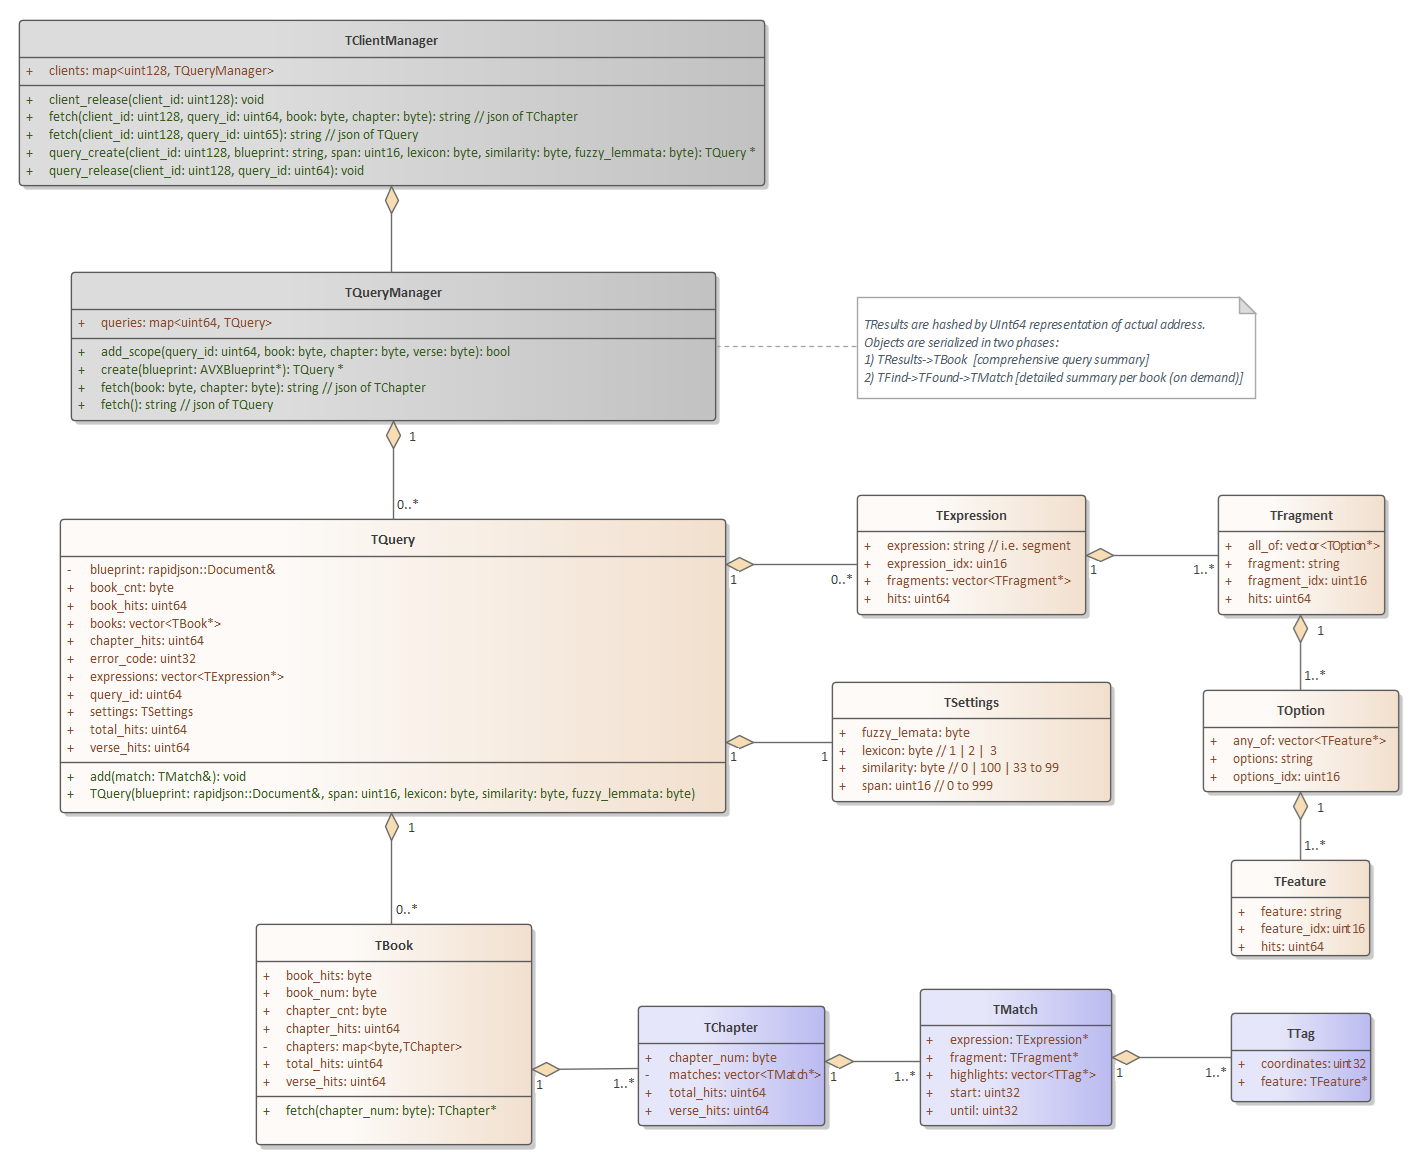
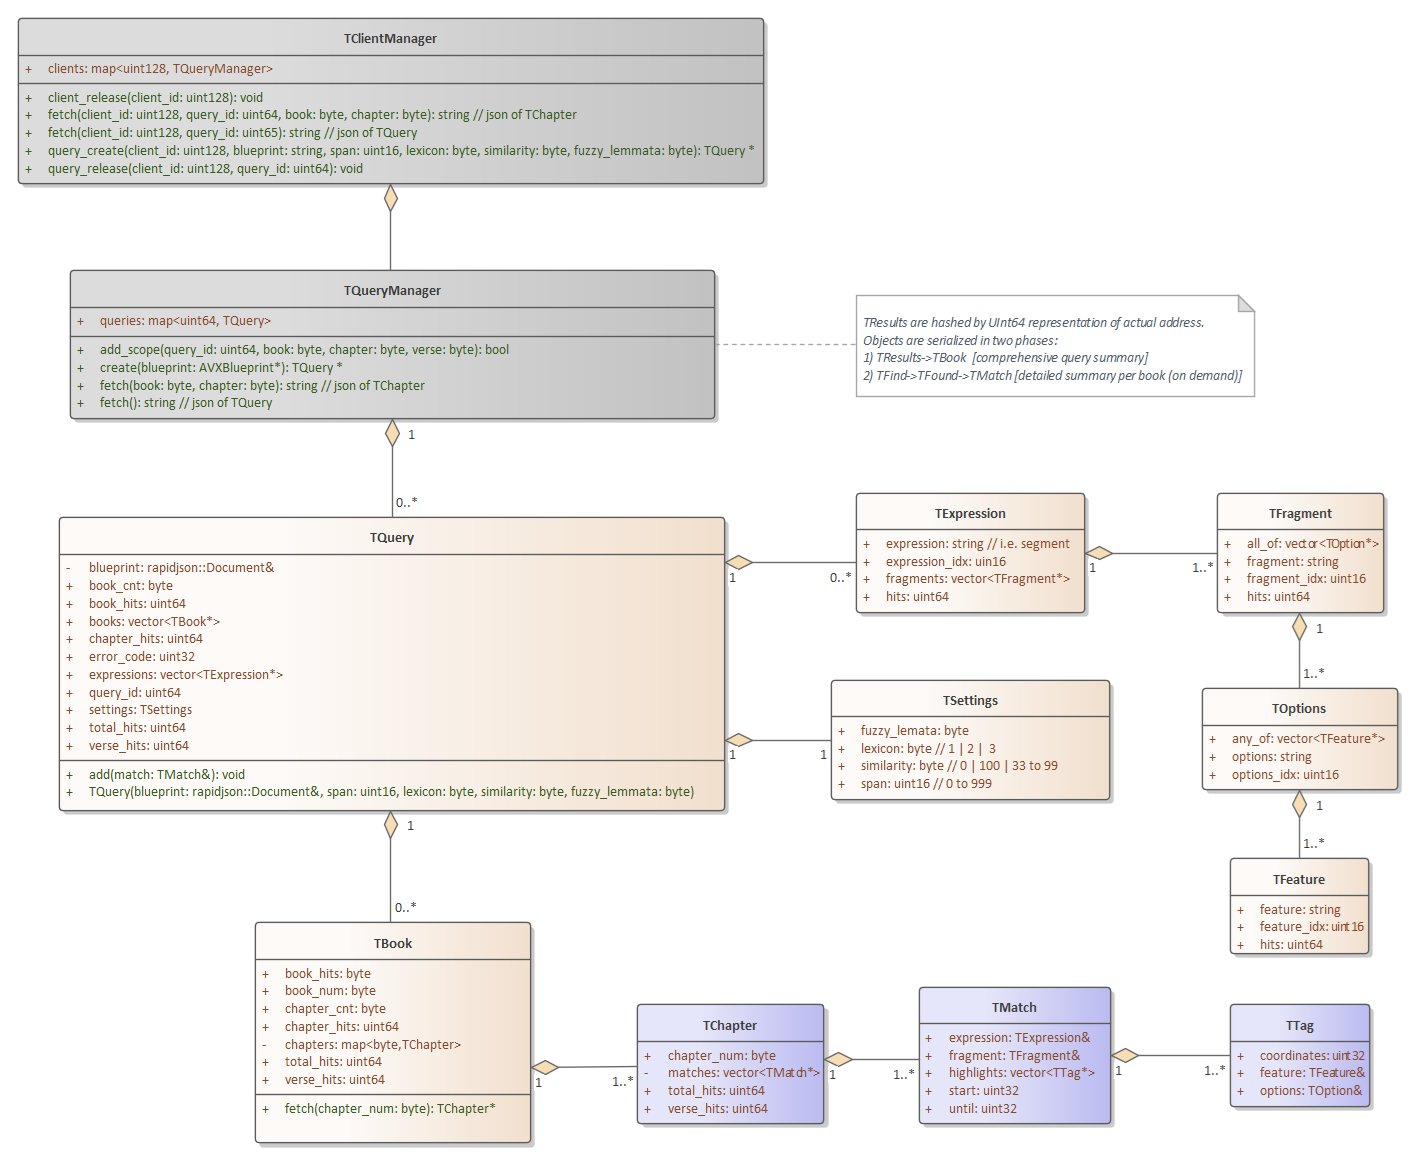
tweaks to results framework, added als options reference to TTag

diff --git a/AVXSearch/TTag.h b/AVXSearch/TTag.h
@@ -11,16 +11,18 @@
 #include <Serialization.h>
 #include <string>
 #include <vector>
+#include <TOptions.h>
 #include <TFeature.h>
 #include <IBuild.h>
 
 class TTag : public IBuild
 {
 public:
+    TOptions& options;
     TFeature& feature;
     uint32 coordinates;
 
-    TTag(uint32 coordinates, TFeature& feature): feature(feature)
+    TTag(uint32 coordinates, TOptions& options, TFeature& feature): options(options), feature(feature)
     {
         this->coordinates = coordinates;
     }
@@ -32,8 +34,10 @@ public:
     virtual void build(rapidjson::Writer<rapidjson::StringBuffer>& builder)
     {
         builder.StartObject();
-        builder.Key("feature");
+        builder.Key("feature_idx");
         builder.Uint(this->feature.feature_idx);
+        builder.Key("options_idx");
+        builder.Uint(this->options.options_idx);
         builder.Key("coordinates");
         builder.Uint(this->coordinates);
         builder.EndObject();

diff --git a/AVXSearch/TFragment.cpp b/AVXSearch/TFragment.cpp
@@ -6,7 +6,7 @@
 ///////////////////////////////////////////////////////////
 
 #include <TFragment.h>
-#include <TOption.h>
+#include <TOptions.h>
 #include <AVXFragment.h>
 
 TFragment::TFragment(const AVXFragment& frag, uint16 frag_idx)
@@ -18,7 +18,7 @@ TFragment::TFragment(const AVXFragment& frag, uint16 frag_idx)
 	uint16 idx = 0;
 	for (auto option : frag.requirements)
 	{
-		this->all_of.push_back(new TOption(*option, idx++));
+		this->all_of.push_back(new TOptions(*option, idx++));
 	}
 }
 

diff --git a/AVXSearch/TOptions.h b/AVXSearch/TOptions.h
@@ -9,10 +9,10 @@
 #include <AVXComparator.h>
 
 class AVXComparator;
-class TOption : public IBuild
+class TOptions : public IBuild
 {
 public:
-	TOption(AVXMatchAny& match_any, uint16 match_any_idx)
+	TOptions(AVXMatchAny& match_any, uint16 match_any_idx)
 	{
 		this->options = match_any.options;
 		this->options_idx = match_any_idx;
@@ -27,7 +27,7 @@ public:
 	uint16 options_idx;
 	uint64 hits;
 
-	virtual ~TOption()
+	virtual ~TOptions()
 	{
 		for (auto feature : this->any_of)
 		{

diff --git a/AVXSearch/TMatch.cpp b/AVXSearch/TMatch.cpp
@@ -51,10 +51,10 @@ void TMatch::build(rapidjson::Writer<rapidjson::StringBuffer>& builder)
     builder.Key("until");
     builder.Uint(this->until);
 
-    builder.Key("fragment");
+    builder.Key("fragment_idx");
     builder.Uint(this->fragment.fragment_idx);
 
-    builder.Key("expression");
+    builder.Key("expression_idx");
     builder.Uint(this->expression.expression_idx);
 
     builder.Key("highlights");

diff --git a/AVXSearch/TFragment.h b/AVXSearch/TFragment.h
@@ -13,7 +13,7 @@
 #include <vector>
 #include <IBuild.h>
 #include <AVXFragment.h>
-#include <TOption.h>
+#include <TOptions.h>
 
 class TFragment : public IBuild
 {
@@ -25,7 +25,7 @@ public:
 	bool anchored;
 	std::string fragment;
 	uint16 fragment_idx;
-	std::vector<TOption*> all_of;
+	std::vector<TOptions*> all_of;
 
 	virtual void build(rapidjson::Writer<rapidjson::StringBuffer>& builder);
 };
